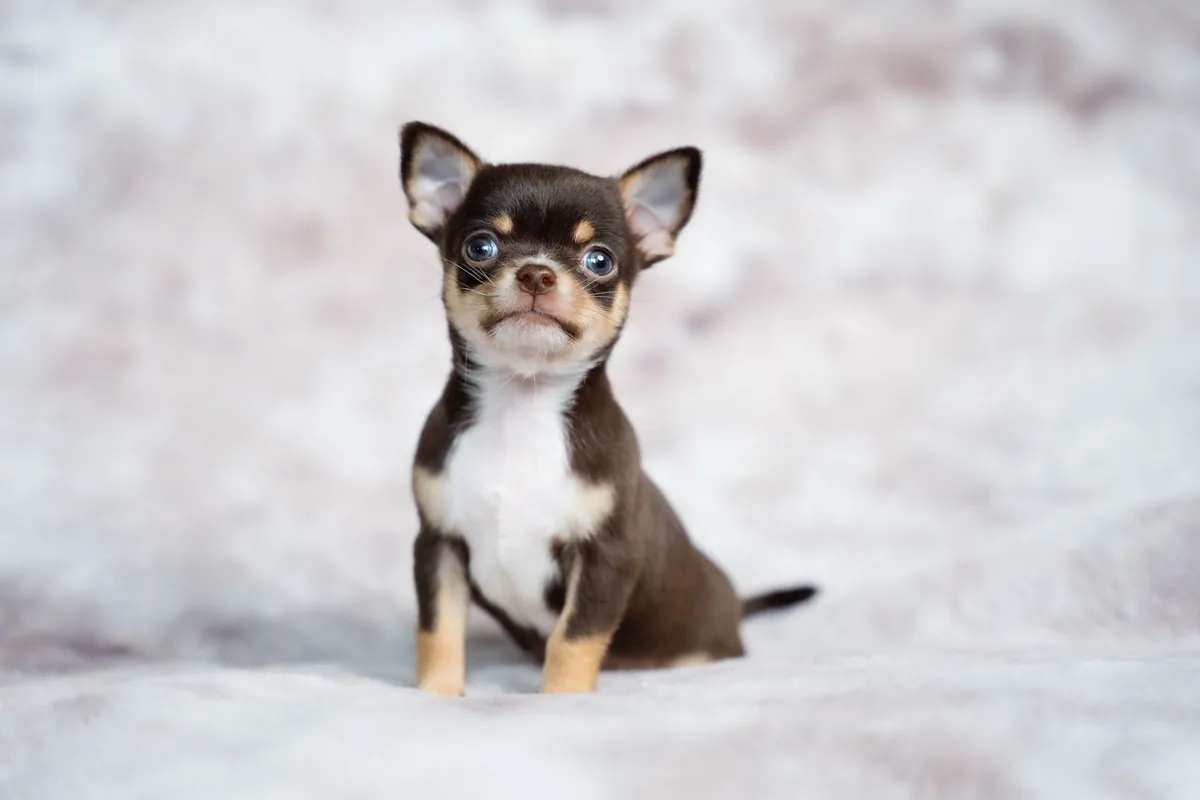
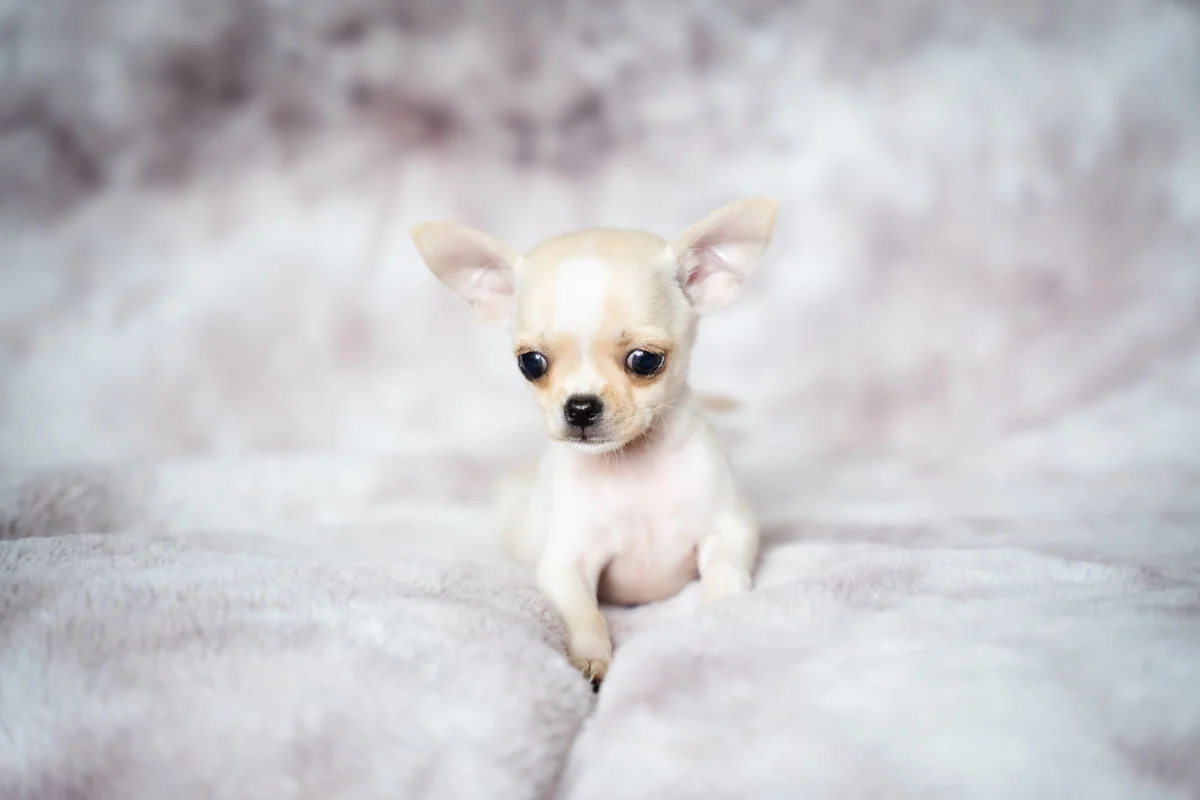
feat: update chihuahua photo

diff --git a/docs/photo-credits.html b/docs/photo-credits.html
@@ -14,7 +14,7 @@
     <ul>
       <li>Мальтийская болонка: <a href="https://commons.wikimedia.org/wiki/File:Dog-1123016_960_720.jpg">Dog-1123016 960 720.jpg</a>, Pezibear, <a href="https://creativecommons.org/publicdomain/zero/1.0/">CC0 1.0</a>.</li>
       <li>Вельш-корги пемброк: <a href="https://www.pexels.com/photo/photo-of-a-corgi-dog-standing-in-grass-18343914/">фотография на Pexels</a>, KIM, <a href="https://www.pexels.com/license/">лицензия Pexels</a>.</li>
-      <li>Чихуахуа: <a href="https://www.pexels.com/photo/cute-chihuahua-puppy-on-soft-background-33334345/">фотография на Pexels</a>, Clarissa Roley, <a href="https://www.pexels.com/license/">лицензия Pexels</a>.</li>
+      <li>Чихуахуа: <a href="https://www.pexels.com/photo/adorable-cream-chihuahua-puppy-on-soft-blanket-33535900/">фотография на Pexels</a>, Clarissa Roley, <a href="https://www.pexels.com/license/">лицензия Pexels</a>.</li>
       <li>Той-пудель: <a href="https://www.pexels.com/photo/an-adorable-toy-poodle-11186548/">фотография на Pexels</a>, lizhnni, <a href="https://www.pexels.com/license/">лицензия Pexels</a>.</li>
     </ul>
     <p><a class="text-link" href="../index.html#breeds">← Вернуться к породам</a></p>

diff --git a/docs/photo-credits.md b/docs/photo-credits.md
@@ -4,7 +4,7 @@
 
 - **Мальтийская болонка:** Pezibear, Pixabay; [Dog-1123016](https://commons.wikimedia.org/wiki/File:Dog-1123016_960_720.jpg); [CC0 1.0](https://creativecommons.org/publicdomain/zero/1.0/).
 - **Вельш-корги пемброк:** KIM; [фото на Pexels](https://www.pexels.com/photo/photo-of-a-corgi-dog-standing-in-grass-18343914/); [лицензия Pexels](https://www.pexels.com/license/).
-- **Чихуахуа:** Clarissa Roley; [фото на Pexels](https://www.pexels.com/photo/cute-chihuahua-puppy-on-soft-background-33334345/); [лицензия Pexels](https://www.pexels.com/license/).
+- **Чихуахуа:** Clarissa Roley; [фото на Pexels](https://www.pexels.com/photo/adorable-cream-chihuahua-puppy-on-soft-blanket-33535900/); [лицензия Pexels](https://www.pexels.com/license/).
 - **Той-пудель:** lizhnni; [фото на Pexels](https://www.pexels.com/photo/an-adorable-toy-poodle-11186548/); [лицензия Pexels](https://www.pexels.com/license/).
 
 Pexels разрешает бесплатное использование и изменение изображений, в том числе коммерческое, при соблюдении ограничений. Нельзя выдавать изображение за подтверждение чьей-либо поддержки или продавать неизменённые копии как самостоятельный продукт. Перед публикацией повторно проверьте страницы фотографий и возможные права третьих лиц.
